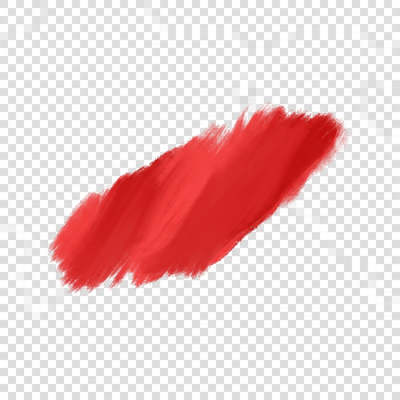
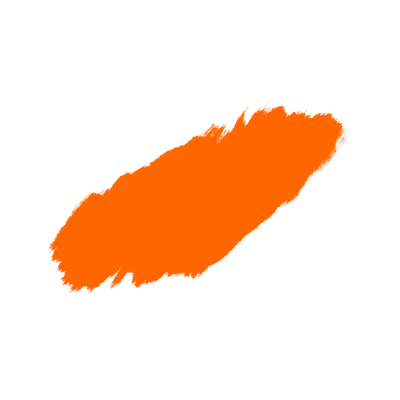
Fix brush-stroke: brand orange, no halo, no flip, list right-aligned
- Regenerate brush-stroke.webp: saturation-based alpha (corner=0, no white halo),
  all stroke pixels tinted to exact #FF6600, 10KB
- Remove transform: scaleX(-1) from li and li>* — stroke now left-to-right
- #ucalc-intro align-items: flex-end — metrics flush right, close to calculator

diff --git a/css/styles.css b/css/styles.css
@@ -2877,7 +2877,7 @@ li.service-tier.service-tier--info,
   display: flex;
   flex-direction: column;
   justify-content: center;
-  align-items: flex-start;
+  align-items: flex-end;
   color: #F6F2E8;
   padding: 22px 16px;
   height: 100%;
@@ -2909,11 +2909,6 @@ li.service-tier.service-tier--info,
   background-repeat: no-repeat;
   background-position: left center;
   background-size: 180px;
-  transform: scaleX(-1);
-}
-/* Counter-flip children so text reads normally despite the parent mirror */
-.ucalc-intro-list li > * {
-  transform: scaleX(-1);
 }
 /* Abbreviation — bold white, primary visual anchor on the stroke */
 .ucalc-intro-abbr {
